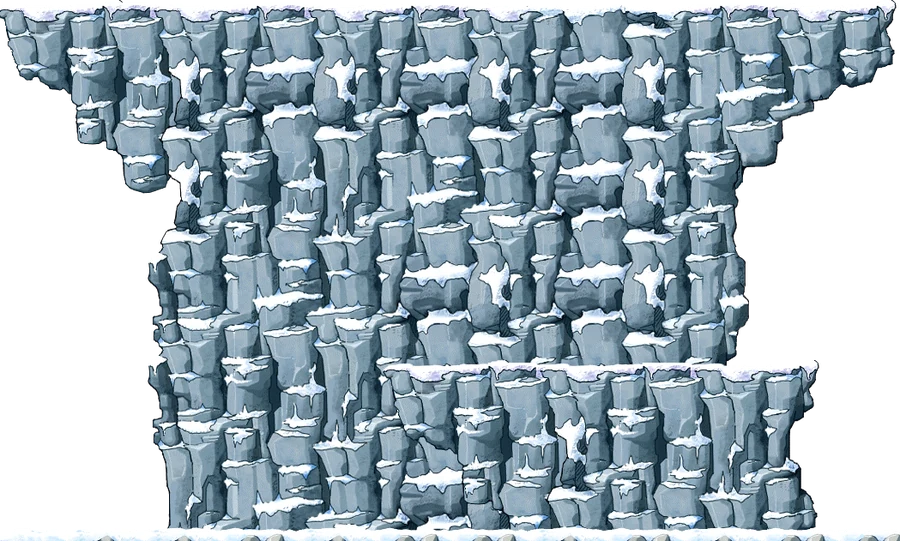
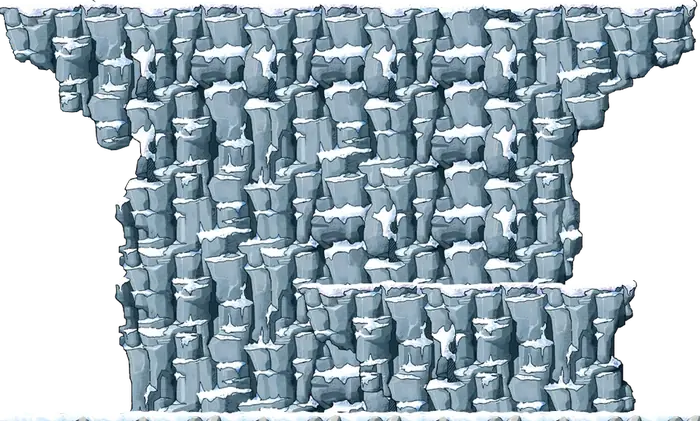
Bonk Duel: shrink map backgrounds and platforms (~640 KB -> ~250 KB per full set)

diff --git a/duel.css b/duel.css
@@ -45,13 +45,13 @@
 #bdClock.hurry, #btClock.hurry { color: var(--red); border-color: var(--red); animation: pop .5s infinite alternate; }
 
 .bd-arena { --z: 2; --gl: 96px; position: relative; height: 380px; overflow: hidden; border-radius: 14px; border: 3px solid #3b2f22;
-  background: #6fb8ea url(media/duel/bg_henesys.webp) center bottom / cover no-repeat; }
+  background: #6fb8ea url(media/duel/bg_henesys.webp?v=9) center bottom / cover no-repeat; }
 .bd-arena.sd::after { content: ""; position: absolute; inset: 0; background: rgba(255, 90, 20, .2); pointer-events: none; z-index: 1; }
 /* maps: the real background art (Map.wz back layers) + one platform from the same map */
-.bd-arena.m-elnath { background-color: #b9bfe0; background-image: url(media/duel/bg_elnath.webp); }
-.bd-arena.m-zakum  { background-color: #3a0a06; background-image: url(media/duel/bg_zakum.webp?v=8); }
-.bd-arena.m-ludi   { background-color: #3651d0; background-image: url(media/duel/bg_ludi.webp); }
-.bd-arena.m-sleepy { background-color: #1c1a12; background-image: url(media/duel/bg_sleepy.webp); }
+.bd-arena.m-elnath { background-color: #b9bfe0; background-image: url(media/duel/bg_elnath.webp?v=9); }
+.bd-arena.m-zakum  { background-color: #3a0a06; background-image: url(media/duel/bg_zakum.webp?v=9); }
+.bd-arena.m-ludi   { background-color: #3651d0; background-image: url(media/duel/bg_ludi.webp?v=9); }
+.bd-arena.m-sleepy { background-color: #1c1a12; background-image: url(media/duel/bg_sleepy.webp?v=9); }
 .bd-plat { position: absolute; left: 50%; transform: translateX(-50%); z-index: 1; pointer-events: none; max-width: none; }
 /* Zakum's altar: huge, standing on the platform tile and reaching the top of the arena; centred on its stone face
    (the face sits at 48.4% of the picture's width, not 50%) */

diff --git a/duel2.js b/duel2.js
@@ -214,7 +214,7 @@ function targetsFor(move) {
 }
 const canTarget = (move, slot) => targetsFor(move).includes(slot);
 function placePlat(map) {
-  const ar = $t("#btArena"), img = $t("#btPlat"), p = (MAPS[map] || MAPS.henesys).plat, src = `${M}plat_${MAPS[map] ? map : "henesys"}.webp?v=4`;
+  const ar = $t("#btArena"), img = $t("#btPlat"), p = (MAPS[map] || MAPS.henesys).plat, src = `${M}plat_${MAPS[map] ? map : "henesys"}.webp?v=6`;
   if (img.dataset.src !== src) { img.src = src; img.dataset.src = src; }
   const frac = Math.max(p.frac, .94), w = ar.clientWidth * frac, h = w * p.h / p.w, gl = parseFloat(getComputedStyle(ar).getPropertyValue("--gl")) || 96;
   img.style.width = w + "px"; img.style.bottom = (gl - (h - p.top * w / p.w)) + "px";

diff --git a/duel.js b/duel.js
@@ -536,7 +536,7 @@ function render() {
 // stand the map's platform under the fighters: its walkable top lines up with the feet line (--gl)
 function placePlat() {
   const ar = $b("#bdArena"), img = $b("#bdPlat"), mp = MAPS[(st && st.map) || "henesys"] || MAPS.henesys, p = mp.plat;
-  const src = `${M}plat_${(st && MAPS[st.map]) ? st.map : "henesys"}.webp?v=5`;
+  const src = `${M}plat_${(st && MAPS[st.map]) ? st.map : "henesys"}.webp?v=6`;
   if (img.dataset.src !== src) { img.src = src; img.dataset.src = src; }
   const w = ar.clientWidth * p.frac, h = w * p.h / p.w, gl = parseFloat(getComputedStyle(ar).getPropertyValue("--gl")) || 96;
   img.style.width = w + "px"; img.style.bottom = (gl - (h - p.top * w / p.w)) + "px";

diff --git a/index.html b/index.html
@@ -9,7 +9,7 @@
 <link href="https://fonts.googleapis.com/css2?family=Ubuntu:wght@500;700&display=swap" rel="stylesheet">
 <link rel="stylesheet" href="draw.css?v=13">
 <link rel="stylesheet" href="ww.css?v=1">
-<link rel="stylesheet" href="duel.css?v=31">
+<link rel="stylesheet" href="duel.css?v=32">
 <link rel="stylesheet" href="extras.css?v=46">
 <style>
 :root {
@@ -805,8 +805,8 @@ show();
 <script src="draw.js?v=12"></script>
 <script src="ww.js?v=4"></script>
 <script src="duel-songs.js?v=1"></script>
-<script src="duel.js?v=26"></script>
-<script src="duel2.js?v=2"></script>
+<script src="duel.js?v=27"></script>
+<script src="duel2.js?v=3"></script>
 <script src="extras.js?v=51"></script>
 </body>
 </html>
